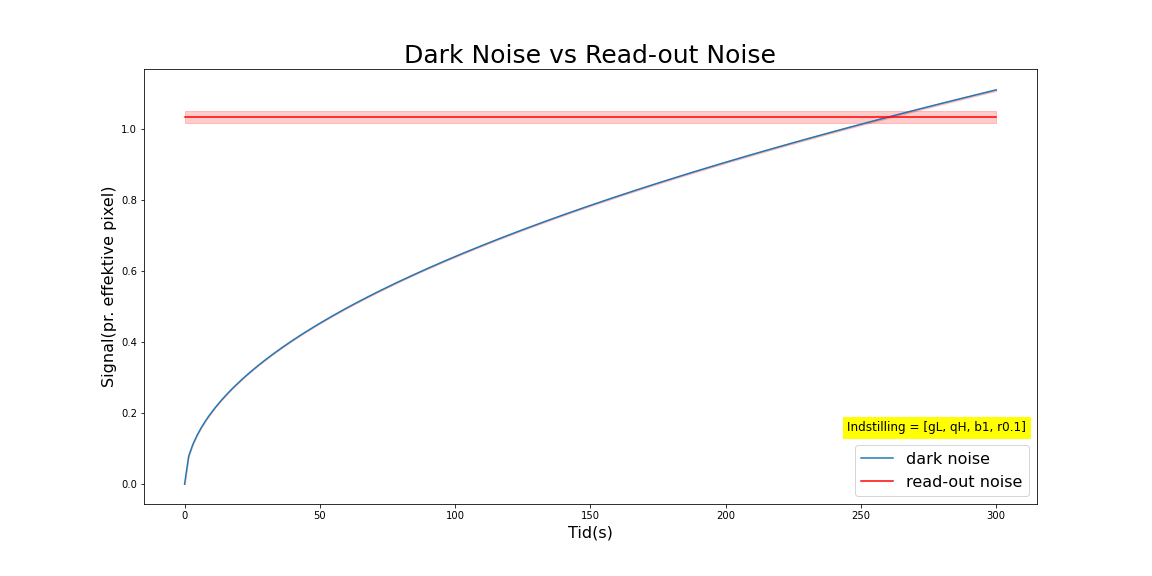
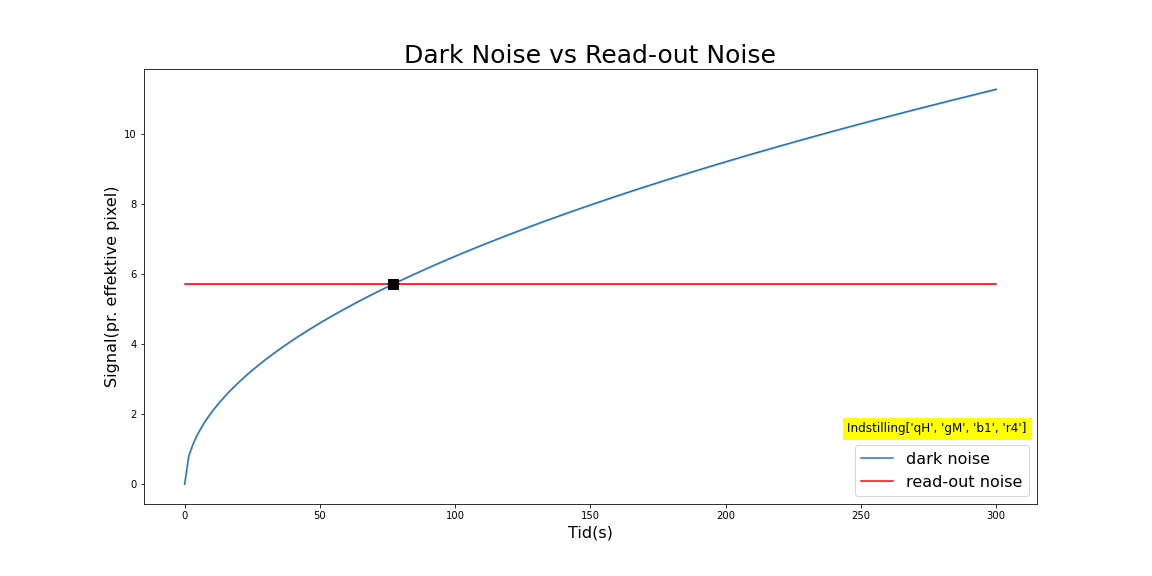
fandt skæringspunktet og sorterede de dårlige punkter fra

diff --git a/Øvelser/Projekt/Ron_vs_Darkb1.py b/Øvelser/Projekt/Ron_vs_Darkb1.py
@@ -10,9 +10,10 @@ os.chdir('C:/Users/123ti/Albert_Tinus/Øvelser/Projekt')
 import scipy.stats as ss
 import scipy.optimize as scp
 import darkcharge as dc
+import Ron_vs_Darkts as rd
 
 fig, ax = plt.subplots(figsize = (16,8))
-setting = ['gL', 'qH', 'b1', 'r0.1']
+setting = ['qH', 'gM', 'b1', 'r4']
 
 dataframedc = pd.read_csv('dark-charge.csv', sep = ',')
 datadc = np.array(dataframedc.values)
@@ -20,32 +21,38 @@ datadc = np.array(dataframedc.values)
 dataframeron = pd.read_csv('read-out-noise.csv')
 dataron = np.array(dataframeron.values)
 
-res = (0,0)
-for d in dataron:
-    i = 0
-    for s in setting:
-        if s in d[0]:
-            i += 1
-    if(i == len(setting)):
-        res = (d[1],d[2])
-val = dc.find_effektiv_a(setting,datadc)
 
+dcs,ros = rd.same_setting(dataron, datadc)
+wantd = []
+wantr = []
+for i in range(len(dcs)):
+    #print(dcs[i][2])
+    #print('')
+    #print(setting)
+    if(dcs[i][2] == setting):
+        wantd.append(dcs[i])
+        wantr.append(ros[i])
+        break
+#print(wantr[0][0])
+root = rd.find_cut(wantd, wantr)
+root_err = rd.find_cut_error(wantd, wantr, root)
+#print(root)
+#roots 
 def kfit(x):
-    return res[0]
+    return wantr[0][0]
 def sqfit(x, error):
-    return np.sqrt((val[0]+error)*x)
-
+    return np.sqrt((wantd[0][0]+error)*x)
 ts = np.linspace(0,300,200)
 ks = np.empty(len(ts))
-ks.fill(res[0])
+ks.fill(wantr[0][0])
 ax.plot(ts,sqfit(ts,0), label = 'dark noise')
 ax.plot(ts,ks, label = 'read-out noise', color = 'red')
-ax.fill_between(ts, ks + res[1], ks - res[1], alpha = 0.2, color = 'red')
-ax.fill_between(ts, sqfit(ts,val[1]), sqfit(ts,-val[1]), alpha = 0.2, color = 'red')
-
+ax.fill_between(ts, ks + wantr[0][1], ks - wantr[0][1], alpha = 0.2, color = 'red')
+ax.fill_between(ts, sqfit(ts,wantd[0][1]), sqfit(ts,-wantd[0][1]), alpha = 0.2, color = 'blue')
+ax.errorbar(root,wantr[0][0], xerr = root_err, fmt = 's', color = 'black', ms = 10)
 ax.set_xlabel('Tid(s)', fontsize = 16)
 ax.set_ylabel('Signal(pr. effektive pixel)', fontsize = 16)
 ax.set_title('Dark Noise vs Read-out Noise', fontsize = 25)
-ax.text(245,0.15,'Indstilling = [gL, qH, b1, r0.1]', fontsize = 12, backgroundcolor = 'yellow',)
-ax.legend(fontsize = 16)
+ax.text(245,1.5,'Indstilling' + str(setting), fontsize = 12, backgroundcolor = 'yellow',)
+ax.legend(fontsize = 16, loc = 'lower right')
 fig.savefig('C:/Users/123ti/Albert_Tinus/Øvelser/Projekt/Latex/Plots/DNvsRONb1')

diff --git a/Øvelser/Projekt/Ron_vs_Darkts.py b/Øvelser/Projekt/Ron_vs_Darkts.py
@@ -41,34 +41,20 @@ def same_setting(ron, dcur):
                 #et grimt plot, plus at fejlen på datapunket bliver ekstremt
                 #stor pr. den fejlfunktionen længere nede.
                 if(val[0] > 10**-6):
+                    setting.pop(-1)
                     dcs.append([val[0],val[1],setting])
                     rons.append([ron[i][1],ron[i][2],setting])
-                    setting.pop(-1)
                     break
             
     return dcs,rons
 dcs,ros = same_setting(dataron,datadc)
 
-#wantd = []
-#wantr = []
-#for i in range(len(dcs)):
-#    dcs[i][2].pop(-1)
-#    for o in dcs[i][2]:
-#        j=0
-#        print(o)
-#        if o in ['gL', 'qH', 'b1', 'r0.1']:
-#            j += 1
-#        if(j == 2):
-#           print('hello')
-#            wantd.append(dcs[i])
-#            wantr.append(ros[i])
-#            break
-#print(wantd)
+
 def find_cut(darks, rons):
     roots = []
     for i in range(len(darks)):
         f = lambda x: np.sqrt(darks[i][0]*x)-rons[i][0]
-        root = scp.fsolve(f,20)
+        root = scp.fsolve(f,200)
         roots.append(root[0])
     return roots
 
@@ -83,14 +69,33 @@ def find_cut_error(darks, rons, roots):
     return root_errors
 
 errs = find_cut_error(dcs, ros, ans)
-#print(errs)
-points = range(len(ans))
-ax.errorbar(points,ans, errs, fmt = 's--')
-
-#ax.plot(points[25:],ans[25:], marker  = '*')
+#fjern punkter der har en værdi, der er så høj, at man ikke vile have kameraet
+#tændt så længe.
+res1 = []
+res2 = []
+res3 = []
+res4 = []
+for i in range(len(ans)):
+    print(ans[i])
+    if(ans[i] < 500):
+        print('hello')
+        res1.append(ans[i])
+        res2.append(dcs[i])
+        res3.append(ros[i])
+        res4.append(errs[i])
+ans = res1
+dcs = res2
+ros = res3
+errs = res4
     
-#print(len(dataron))
-#print(len(datadc))
+points = range(len(ans))
+ax.errorbar(points,ans, errs, fmt = 's--', label = 'Skæringstidspunkter', ms = 10)
+ax.set_xlabel('Indstillinger', fontsize = 20)
+ax.set_ylabel('Tid(s)', fontsize = 20)
+ax.set_title('Skæringstidspunkter for Dark Noise vs Read-out Noise', fontsize = 25)
+ax.legend(fontsize = 16)
+plt.tick_params(right = False, labelbottom = False, bottom = False)
+fig.savefig('C:/Users/123ti/Albert_Tinus/Øvelser/Projekt/Latex/Plots/DNvsRONskær')
 
 
 

diff --git a/Øvelser/Projekt/darkchargekopi.py b/Øvelser/Projekt/darkchargekopi.py
@@ -16,7 +16,7 @@ df = pd.read_csv('dark-charge.csv', sep = ',')
 data = np.array(df.values)
 
 bs = ['b1', 'b4', 'b8', 'b20']
-setting = [['gM', 'qH', b, 'r0.1'] for b in bs]
+#setting = [['gM', 'qH', b, 'r0.1'] for b in bs]
 
 def sort(data):
     k = []
@@ -67,7 +67,7 @@ def find_a(setting, ds):
 
     guess = [0, 600]
     popt, pcov = scp.curve_fit(linear_fit, ts, se.noises(data), guess,
-                             bounds = ((0, 500), (0.5, 700)),
+                             bounds = ((0, -np.inf), (np.inf, np.inf)),
                              sigma = se.error(data),
                              absolute_sigma = True)
     b = 1

diff --git a/Øvelser/Projekt/darkcharge.py b/Øvelser/Projekt/darkcharge.py
@@ -84,7 +84,7 @@ def find_effektiv_a(setting, ds):
 
     guess = [0, 600]
     popt, pcov = scp.curve_fit(linear_fit, ts, se.noises(data), guess,
-                             bounds = ((0, 500), (0.5, 700)),
+                             bounds = ((0, -np.inf), (np.inf, np.inf)),
                              sigma = se.error(data),
                              absolute_sigma = True)
     b = 1
